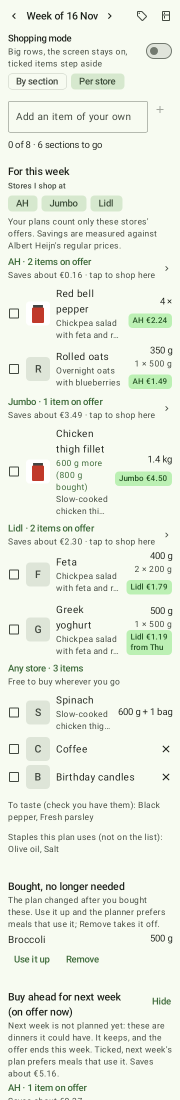
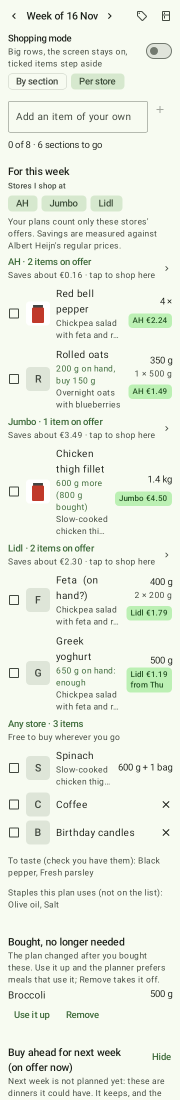
A ticked row names no stock, so what is still to buy is one number
After rebasing on #112: a ticked row that needs more said "600 g more (800 g bought)" and, below
it, "300 g on hand", which invites subtracting the stock a second time; what the row said when
ticked already counted the stock there was. A ticked row now says nothing of the stock (and its
name no "(on hand?)" when the amount is known); the pantry still shows it. That also keeps the
busiest row (ticked, more needed, on hand, recipes) from growing to nine lines at 360 dp x1.3.

tickAgain sends no grams: only rows of the meals' needs can need more, and the server weighs
those itself. The shopping pictures are re-recorded on top of #112's, and the sample's chicken
row and pantry carry a stock to show the case.

diff --git a/composeApp/src/commonMain/kotlin/dev/tobins/mealplanner/app/ShoppingScreen.kt b/composeApp/src/commonMain/kotlin/dev/tobins/mealplanner/app/ShoppingScreen.kt
@@ -120,18 +120,24 @@ internal fun ShoppingItem.gramsToBuy(): Double? {
 }
 
 /**
- * What the row says under its name of what is at home: `300 g on hand, buy 200 g`, `600 g on hand:
- * enough` when it covers the need, or `300 g on hand` when the need's weight is not known or the row
- * is ticked ([gramsToBuy]). Null when
- * not on hand, and when on hand in an amount nobody knows (put there by hand): the name then asks
- * "(on hand?)" as before, never saying none is there.
+ * What a row not ticked yet says under its name of what is at home: `300 g on hand, buy 200 g`,
+ * `600 g on hand: enough` when it covers the need, or `300 g on hand` when the need's weight is not
+ * known. Null when not on hand, and when on hand in an amount nobody knows (put there by hand): the
+ * name then asks "(on hand?)" ([nameText]), never saying none is there. Null on a ticked row too:
+ * its buying is done, or its "more" line ([moreNeeded]) says the one amount still to buy, which a
+ * second amount next to it would only make the reader subtract from again ([gramsToBuy]).
  */
 internal fun ShoppingItem.onHandText(strings: Strings): String? {
+    if (checked) return null
     val left = onHandGrams?.takeIf { onHand } ?: return null
     val amount = weightText(left, strings.locale)
     val toBuy = gramsToBuy() ?: return strings(Msg.ON_HAND_AMOUNT, amount)
     return if (toBuy < SCRAP_GRAMS) strings(Msg.ON_HAND_ENOUGH, amount) else strings(Msg.ON_HAND_BUY, amount, weightText(toBuy, strings.locale))
 }
+
+/** The row's name, asking "(on hand?)" when it is on hand in an amount nobody knows, as before amounts were kept. */
+internal fun ShoppingItem.nameText(strings: Strings): String =
+    if (onHand && onHandGrams == null) strings(Msg.ON_HAND_MAYBE, name) else name
 
 /**
  * [packsToBuy] for what is still to buy ([gramsToBuy]) when part of it is on hand in a known amount,
@@ -751,7 +757,7 @@ private fun ShoppingRow(item: ShoppingItem, offer: Offer?, shops: Set<Store>, to
         ProductPicture(item.pictureUrl(offer, shops), item.name, size = if (shoppingMode) 56.dp else 48.dp, dimmed = item.done)
         Column(Modifier.weight(1f).padding(start = 12.dp, top = 6.dp, bottom = 6.dp)) {
             Text(
-                if (item.onHand && stock == null) t(Msg.ON_HAND_MAYBE, item.name) else item.name,
+                item.nameText(t),
                 style = if (shoppingMode) MaterialTheme.typography.titleMedium else MaterialTheme.typography.bodyLarge,
                 textDecoration = if (item.done) TextDecoration.LineThrough else null,
                 maxLines = 2,
@@ -761,8 +767,7 @@ private fun ShoppingRow(item: ShoppingItem, offer: Offer?, shops: Set<Store>, to
             if (more != null) {
                 Text(more.text(t), style = MaterialTheme.typography.bodySmall, color = MaterialTheme.colorScheme.primary)
             }
-            // How much is at home, when that is known: on a row not ticked yet, also what is left to
-            // buy or that it is enough; on a ticked one the amount alone ([gramsToBuy]).
+            // How much is at home, when that is known and the row is not ticked yet: what is left to buy, or that it is enough.
             if (stock != null) {
                 Text(stock, style = MaterialTheme.typography.bodySmall, color = MaterialTheme.colorScheme.primary)
             }

diff --git a/composeApp/src/commonTest/kotlin/dev/tobins/mealplanner/app/ShoppingStoresTest.kt b/composeApp/src/commonTest/kotlin/dev/tobins/mealplanner/app/ShoppingStoresTest.kt
@@ -277,14 +277,19 @@ class ShoppingStoresTest {
         assertEquals("2 × 700 g", unknown.packsStillToBuy(offer)?.text(Strings.English))
         // The need can't be weighed in full: what is at home, without a sum.
         assertEquals("300 g on hand", stocked(300.0, grams = null).onHandText(Strings.English))
-        // Ticked: what it said then counted the stock in, so the amount alone, and packs for the whole
-        // need as before; a row that needs more says what is left to buy in its own line.
+        // Ticked: what it said then counted the stock in, so no second amount and the plain name; packs
+        // for the whole need as before. A row that needs more says the one amount still to buy.
         val ticked = stocked(800.0).copy(checked = true)
-        assertEquals("800 g on hand", ticked.onHandText(Strings.English))
+        assertNull(ticked.onHandText(Strings.English))
+        assertEquals("Chicken", ticked.nameText(Strings.English))
         assertEquals("2 × 700 g", ticked.packsStillToBuy(offer)?.text(Strings.English))
         val grown = stocked(300.0).copy(checked = true, boughtGrams = 800.0)
         assertEquals("600 g more (800 g bought)", grown.moreNeeded()?.text(Strings.English), "the one number still to buy")
-        assertEquals("300 g on hand", grown.onHandText(Strings.English))
+        assertNull(grown.onHandText(Strings.English))
+        // The name asks only when nobody knows how much there is, ticked or not.
+        assertEquals("Chicken  (on hand?)", unknown.nameText(Strings.English))
+        assertEquals("Chicken  (in huis?)", unknown.copy(checked = true).nameText(Strings.Dutch))
+        assertEquals("Chicken", part.nameText(Strings.English))
         // Not on hand: nothing, whatever the amount says.
         assertNull(stocked(800.0).copy(onHand = false).onHandText(Strings.English))
         assertEquals("2 × 700 g", stocked(800.0).copy(onHand = false).packsStillToBuy(offer)?.text(Strings.English))

diff --git a/composeApp/src/androidHostTest/kotlin/dev/tobins/mealplanner/app/FakeBackend.kt b/composeApp/src/androidHostTest/kotlin/dev/tobins/mealplanner/app/FakeBackend.kt
@@ -188,8 +188,8 @@ class FakeBackend(
                 item("spinach", "Spinach", null, 1.0, ShopSection.FRUIT_VEG, chicken, knownGrams = 600.0, otherAmounts = listOf("1 bag")),
                 item(
                     // Bought for the 800 g a reroll needed; the meals need 1.4 kg now: 600 g more. 300 g
-                    // bought ahead last week is in the freezer: counted in when the row said 800 g, so it
-                    // shows as an amount only.
+                    // bought ahead last week is in the freezer: counted in when the row said 800 g, so the
+                    // ticked row doesn't name it again.
                     "chicken", "Chicken thigh fillet", 1400.0, null, ShopSection.MEAT, chicken, checked = true,
                     offers = listOf(offerList[1].copy(paidShare = 0.75)), imageUrl = offerList[1].imageUrl, regularPrice = 13.97, boughtGrams = 800.0,
                     onHand = true, onHandGrams = 300.0,

diff --git a/docs/data-sources.md b/docs/data-sources.md
@@ -201,9 +201,9 @@ is on hand without an amount, as before.
 week carries the grams left (`ShoppingItem.onHandGrams`), and the app says `300 g on hand, buy 200 g`
 under its name, `600 g on hand: enough` when that covers the need (with no packs to take), or `300 g
 on hand` when the need can't be weighed in full; the packs to take are for what is still to buy.
-A ticked row shows the amount alone: what it said when ticked already counted the stock there was,
-so on a row that needs more the one number still to buy is its "more" line, never that less the
-stock again. The
+A ticked row says nothing of the stock: what it said when ticked already counted the stock there
+was, so on a row that needs more the one number still to buy is its "more" line, never that less
+the stock again (the pantry still shows the amount). The
 pantry gives the grams left of each entry (`Pantry.onHandGrams`, next week's stock included, as it is
 at home) and the app shows `300 g left` under its name. An entry set by hand, or ticked without an
 amount, has no amount: the row says `(on hand?)` as before and the pantry no number, never zero.
